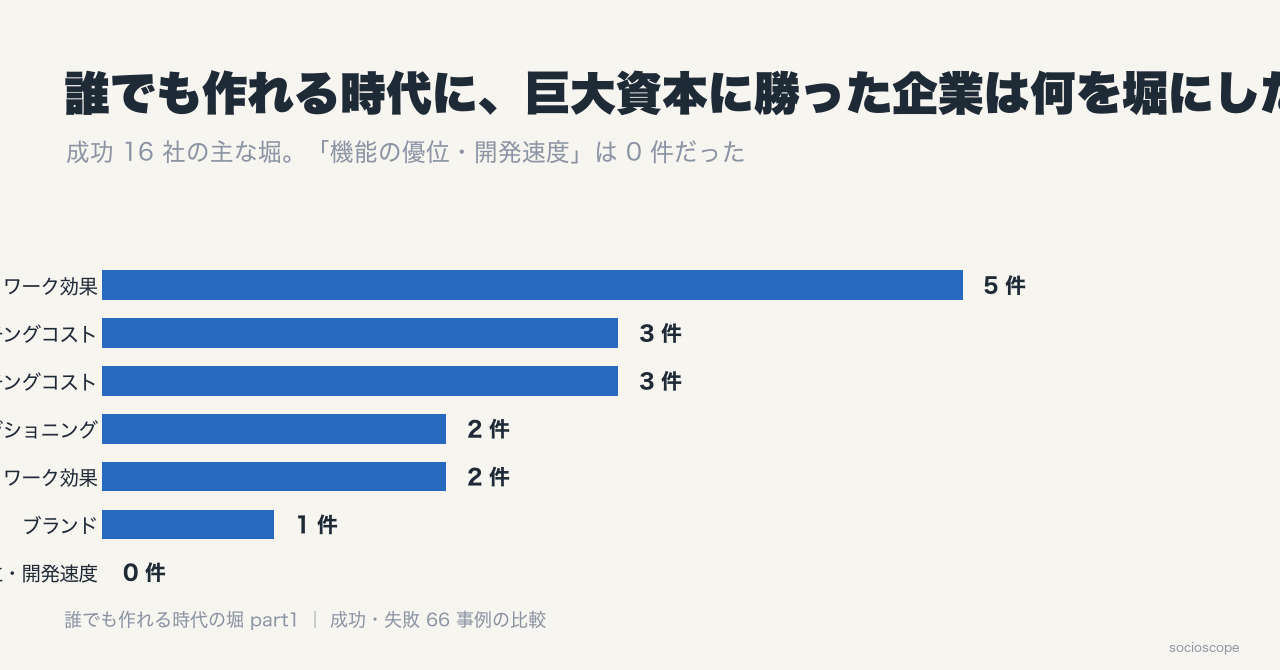
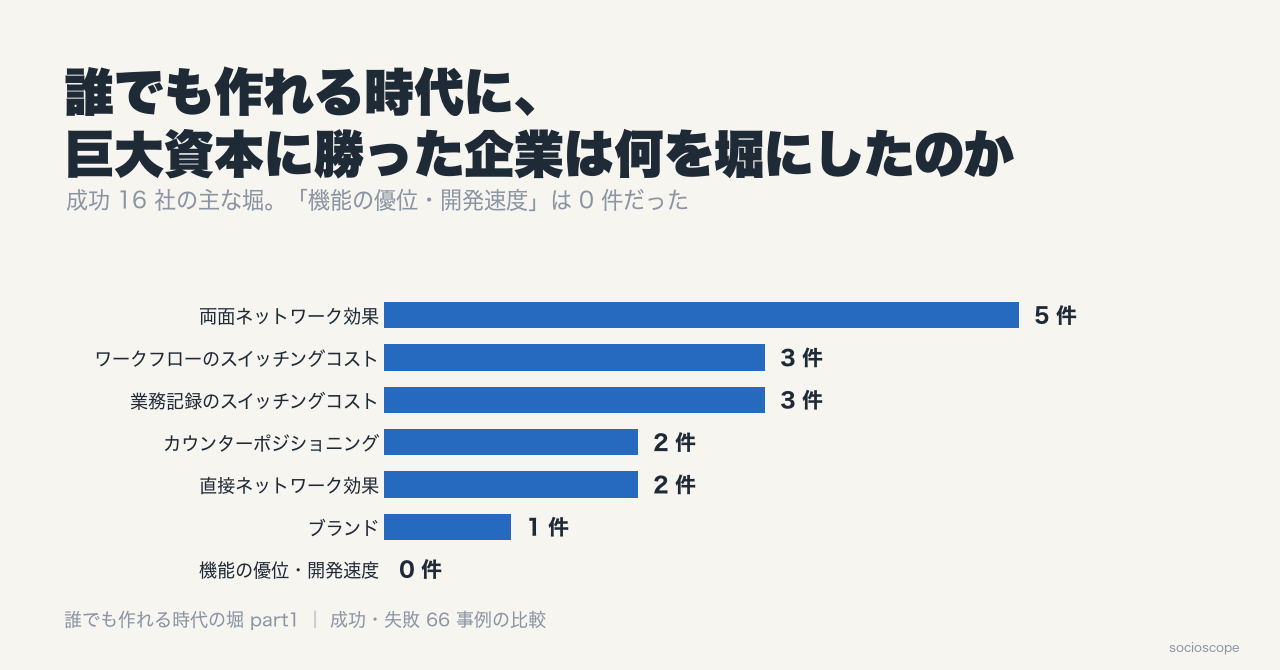
docs(moat-cases): ヘッダー画像のタイトル折り返しとラベルの切れを直す

diff --git a/docs/articles/headers/make_moat_headers.py b/docs/articles/headers/make_moat_headers.py
@@ -30,9 +30,11 @@ def canvas():
     return fig, bg
 
 
-def title_block(bg, title, sub, size=38):
-    bg.text(64, 600, title, fontsize=size, fontweight=900, color=INK, va="top", ha="left")
-    bg.text(66, 530, sub, fontsize=17, color=MUTED, va="top", ha="left")
+def title_block(bg, title, sub, size=36):
+    """タイトルは 2 行まで。'\n' で改行位置を指定する。"""
+    bg.text(64, 610, title, fontsize=size, fontweight=900, color=INK, va="top", ha="left", linespacing=1.25)
+    nlines = title.count("\n") + 1
+    bg.text(66, 610 - size * 1.65 * nlines - 10, sub, fontsize=16, color=MUTED, va="top", ha="left")
 
 
 def series_tag(bg, text):
@@ -40,14 +42,14 @@ def series_tag(bg, text):
     bg.text(W - 40, 18, "socioscope", fontsize=9, color=MUTED, ha="right")
 
 
-def hbar(fig, labels, vals, colors, rect=(0.08, 0.10, 0.84, 0.52), unit=" 件"):
+def hbar(fig, labels, vals, colors, rect=(0.30, 0.11, 0.62, 0.46), unit=" 件"):
     ax = fig.add_axes(list(rect))
     ax.barh(labels[::-1], vals[::-1], color=colors[::-1], height=0.62)
     for i, v in enumerate(vals[::-1]):
         ax.text(v + 0.12, i, f"{v}{unit}", va="center", fontsize=15, color=INK, fontweight="bold")
     ax.set_xlim(0, max(vals) * 1.25 if max(vals) else 1)
     ax.set_xticks([])
-    ax.tick_params(axis="y", labelsize=14, colors=INK, length=0)
+    ax.tick_params(axis="y", labelsize=13, colors=INK, length=0)
     for sp in ax.spines.values():
         sp.set_visible(False)
     ax.set_facecolor(PAPER)
@@ -56,7 +58,7 @@ def hbar(fig, labels, vals, colors, rect=(0.08, 0.10, 0.84, 0.52), unit=" 件"):
 
 def part1():
     fig, bg = canvas()
-    title_block(bg, "誰でも作れる時代に、巨大資本に勝った企業は何を堀にしたのか", "成功 16 社の主な堀。「機能の優位・開発速度」は 0 件だった", size=33)
+    title_block(bg, "誰でも作れる時代に、\n巨大資本に勝った企業は何を堀にしたのか", "成功 16 社の主な堀。「機能の優位・開発速度」は 0 件だった")
     hbar(fig, ["両面ネットワーク効果", "ワークフローのスイッチングコスト", "業務記録のスイッチングコスト", "カウンターポジショニング", "直接ネットワーク効果", "ブランド", "機能の優位・開発速度"], [5, 3, 3, 2, 2, 1, 0], [BLUE] * 6 + [ORANGE])
     series_tag(bg, "誰でも作れる時代の堀 part1 ｜ 成功・失敗 66 事例の比較")
     fig.savefig(OUT / "2026-11-16-note-moat-part1-what-winners-built.png", dpi=DPI, facecolor=PAPER)
@@ -65,7 +67,7 @@ def part1():
 
 def part2():
     fig, bg = canvas()
-    title_block(bg, "初期市場を取ったのに巨大資本に奪われた企業は、何を間違えたのか", "失敗 13 社の主因。9 社は巨大資本が「配布」を握っていた", size=31)
+    title_block(bg, "初期市場を取ったのに巨大資本に奪われた企業は、\n何を間違えたのか", "失敗 13 社の主因。9 社は巨大資本が「配布」を握っていた", size=34)
     hbar(fig, ["配布網に同じ機能を載せた模倣", "プラットフォームの方針変更", "既存製品への無料同梱", "資本戦で持久できず", "単機能のまま吸収", "技術シフトに遅れ"], [5, 3, 1, 2, 1, 1], [ORANGE] * 3 + [MUTED] * 3)
     series_tag(bg, "誰でも作れる時代の堀 part2 ｜ 成功・失敗 66 事例の比較")
     fig.savefig(OUT / "2026-11-16-note-moat-part2-how-leaders-lost.png", dpi=DPI, facecolor=PAPER)
@@ -74,16 +76,16 @@ def part2():
 
 def part3():
     fig, bg = canvas()
-    title_block(bg, "人材業界の堀は「供給側」なのか", "求人メディアはネットワーク効果 4/4、HR SaaS は業務記録 5/5。タイミーとメルカリ ハロが示したもの", size=38)
-    ax = fig.add_axes([0.08, 0.12, 0.84, 0.50])
-    cats = ["求人メディア・スキマバイト\n（Indeed・LinkedIn・ビズリーチ・タイミー）", "HR SaaS・採用管理\n（Workday・Rippling・Gusto・Deel・Greenhouse）"]
-    ax.barh(cats, [4, 0], color=ORANGE, height=0.55, label="ネットワーク効果")
-    ax.barh(cats, [0, 5], color=BLUE, height=0.55, label="業務記録・ワークフロー")
+    title_block(bg, "人材業界の堀は「供給側」なのか", "求人メディアはネットワーク効果 4/4、HR SaaS は業務記録 5/5")
+    ax = fig.add_axes([0.37, 0.14, 0.55, 0.44])
+    # barh は下から描くので、上に表示したいものを後ろに置く
+    cats = ["HR SaaS・採用管理\n（Workday・Rippling・Gusto・Deel・Greenhouse）", "求人メディア・スキマバイト\n（Indeed・LinkedIn・ビズリーチ・タイミー）"]
+    ax.barh(cats, [5, 4], color=[BLUE, ORANGE], height=0.55)
     ax.text(2, 1, "4 / 4 がネットワーク効果", ha="center", va="center", color="white", fontsize=15, fontweight="bold")
     ax.text(2.5, 0, "5 / 5 が業務記録・ワークフロー", ha="center", va="center", color="white", fontsize=15, fontweight="bold")
     ax.set_xlim(0, 5.3)
     ax.set_xticks([])
-    ax.tick_params(axis="y", labelsize=13, colors=INK, length=0)
+    ax.tick_params(axis="y", labelsize=12, colors=INK, length=0)
     for sp in ax.spines.values():
         sp.set_visible(False)
     ax.set_facecolor(PAPER)
@@ -94,20 +96,22 @@ def part3():
 
 def part4():
     fig, bg = canvas()
-    title_block(bg, "生成 AI 期にモデルの優位は堀になったのか", "25 社のうち、モデル優位だけで 3 年持った企業は 0 社。Stack Overflow の月間質問数はピークの 1% 未満に", size=38)
-    ax = fig.add_axes([0.10, 0.12, 0.80, 0.48])
+    title_block(bg, "生成 AI 期に、モデルの優位は堀になったのか", "25 社のうち、モデル優位だけで 3 年持った企業は 0 社")
+    ax = fig.add_axes([0.10, 0.16, 0.80, 0.40])
     xs = ["2022-11", "2024-12", "2025-12", "2026-05"]
     ys = [108563, 25566, 3862, 976]
     ax.plot(xs, ys, marker="o", color=ORANGE, lw=4, markersize=11)
     for x, y in zip(xs, ys):
         ax.annotate(f"{y:,}", (x, y), textcoords="offset points", xytext=(0, 12), ha="center", fontsize=14, color=INK, fontweight="bold")
     ax.set_yscale("log")
+    ax.set_ylim(500, 400000)
     ax.set_yticks([])
-    ax.tick_params(axis="x", labelsize=13, colors=MUTED, length=0)
+    ax.minorticks_off()
+    ax.tick_params(axis="x", labelsize=13, colors=MUTED, length=0, pad=10)
     for sp in ax.spines.values():
         sp.set_visible(False)
     ax.set_facecolor(PAPER)
-    bg.text(100, 400, "Stack Overflow の月間質問数（対数軸）", fontsize=14, color=MUTED)
+    bg.text(128, 420, "Stack Overflow の月間質問数（対数軸）: ピークの 1% 未満に", fontsize=14, color=MUTED)
     series_tag(bg, "誰でも作れる時代の堀 part4（最終回）｜ 成功・失敗 66 事例の比較")
     fig.savefig(OUT / "2026-11-16-note-moat-part4-ai-era-and-lessons.png", dpi=DPI, facecolor=PAPER)
     plt.close(fig)
